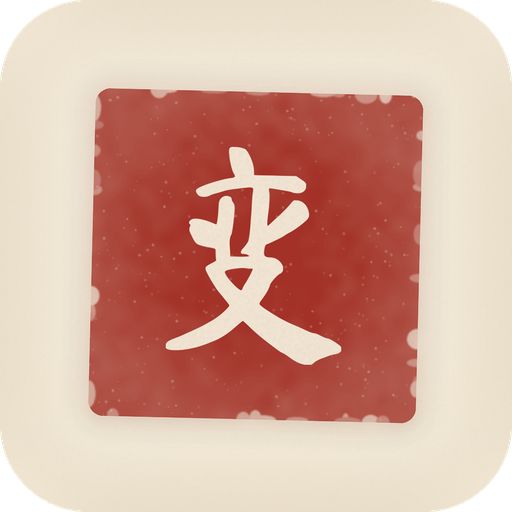
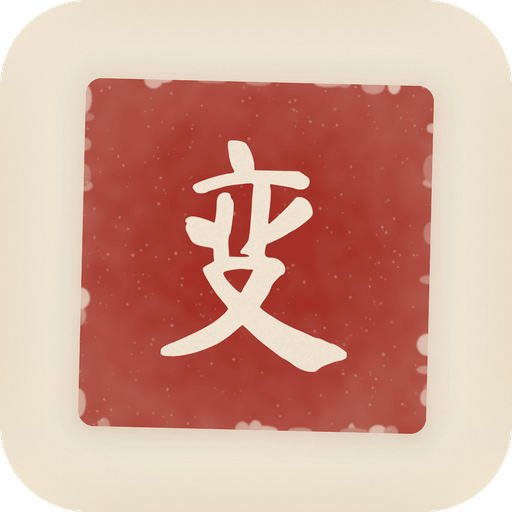
图标微调：印面由 64% 放大至 68%，视觉更饱满
- 图标重绘：宣纸底 + 朱砂方印 + 楷书「变」，附自适应图标（前景/背景分层）
- 界面重做：宣纸墨色配色、册页双框卡片、壹贰叁步骤、古籍界栏、菱形朱印滑块
- 顶栏与状态栏统一为纸色，标题按钮改用内置毛笔楷书
- 结果页改为深墨装裱，作品以白卡纸边框呈现
- 版本号 2.0（versionCode 20），沿用 1.0 签名，可直接覆盖安装

diff --git a/scripts/make_icon.py b/scripts/make_icon.py
@@ -159,7 +159,7 @@ def seal_unit(side, ch="变", font_path=FONT_PATH):
     return unit.rotate(-1.4, resample=Image.BICUBIC, expand=False)
 
 
-def build_icon(size=S, with_paper=True, seal_ratio=0.64, ch="变", font_path=FONT_PATH):
+def build_icon(size=S, with_paper=True, seal_ratio=0.68, ch="变", font_path=FONT_PATH):
     _seed()
     if with_paper:
         img = paper_base(size).convert("RGBA")
@@ -195,7 +195,7 @@ DENS_FG = {"mdpi": 108, "hdpi": 162, "xhdpi": 216, "xxhdpi": 324, "xxxhdpi": 432
 
 
 def main():
-    master = round_mask(build_icon(S, True, 0.64), 0.17)
+    master = round_mask(build_icon(S, True, 0.68), 0.17)
     for d, px in DENS.items():
         folder = os.path.join(RES, "mipmap-" + d)
         os.makedirs(folder, exist_ok=True)
